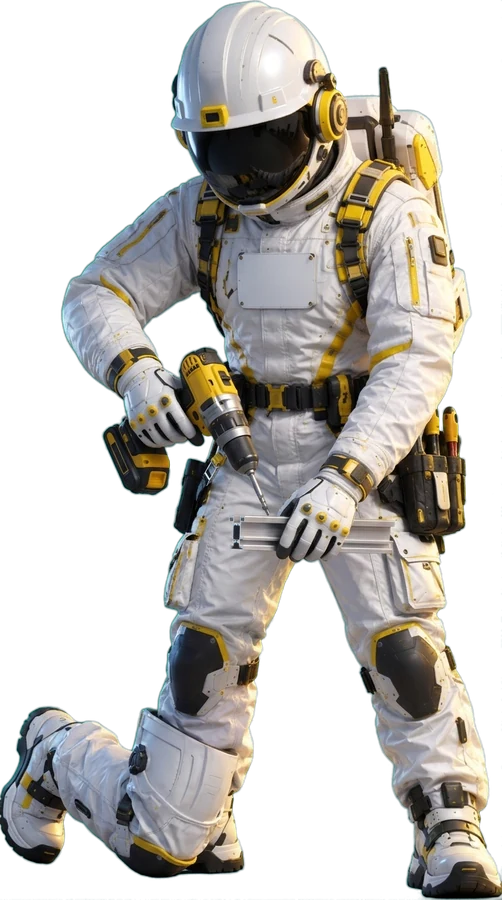
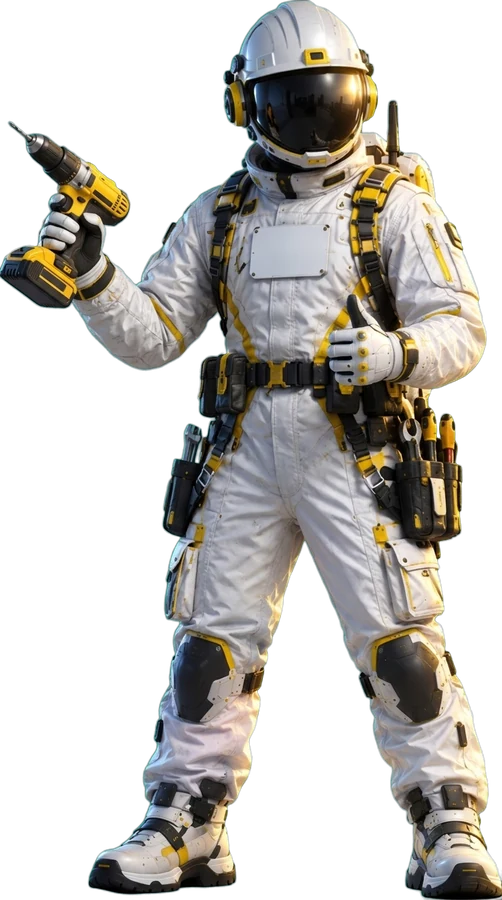
Redo installer mascot and add call-center support scene
- Installer pose regenerated standing upright with a drill and thumbs up
  (the kneeling version had a malformed leg)
- Support mascot now sits at a desk wearing a call-center headset
- MascotCallout sizes each pose separately so the wider desk scene fits

diff --git a/src/components/MascotCallout.tsx b/src/components/MascotCallout.tsx
@@ -3,10 +3,18 @@ import React from 'react';
 export type MascotPose = 'support' | 'calculator' | 'faq' | 'installer';
 
 const MASCOT_ALT: Record<MascotPose, string> = {
-  support: 'مسکات سان پرتو در نقش کارشناس پشتیبانی',
+  support: 'مسکات سان پرتو با هدست پشت میز پشتیبانی',
   calculator: 'مسکات سان پرتو با تبلت محاسبه صرفهجویی انرژی',
   faq: 'مسکات سان پرتو در حال پاسخ به سوالات',
-  installer: 'مسکات سان پرتو در حال نصب سازه پنل خورشیدی',
+  installer: 'مسکات سان پرتو با دریل، آماده نصب سیستم خورشیدی',
+};
+
+// Image width per pose; the desk scene is wider than the standing poses
+const MASCOT_SIZE: Record<MascotPose, { className: string; width: number; height: number }> = {
+  support: { className: 'w-36 sm:w-56', width: 641, height: 700 },
+  calculator: { className: 'w-24 sm:w-32', width: 500, height: 900 },
+  faq: { className: 'w-24 sm:w-32', width: 500, height: 900 },
+  installer: { className: 'w-24 sm:w-32', width: 502, height: 900 },
 };
 
 interface MascotCalloutProps {
@@ -30,11 +38,11 @@ export const MascotCallout: React.FC<MascotCalloutProps> = ({ pose, title, text,
         <img
           src={`/mascot/${pose}.webp`}
           alt={MASCOT_ALT[pose]}
-          width="500"
-          height="900"
+          width={MASCOT_SIZE[pose].width}
+          height={MASCOT_SIZE[pose].height}
           loading="lazy"
           decoding="async"
-          className="w-24 sm:w-32 shrink-0 -mt-16 sm:-mt-24 drop-shadow-[0_10px_20px_rgba(0,0,0,0.5)]"
+          className={`${MASCOT_SIZE[pose].className} shrink-0 -mt-16 sm:-mt-24 drop-shadow-[0_10px_20px_rgba(0,0,0,0.5)]`}
         />
         <div className="flex-1 self-center py-5 sm:py-7 space-y-3">
           <h3 className="text-sm sm:text-lg font-bold text-white">{title}</h3>
